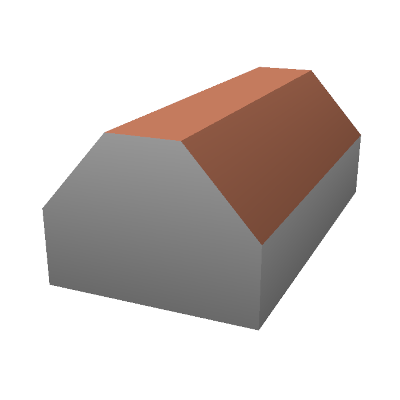
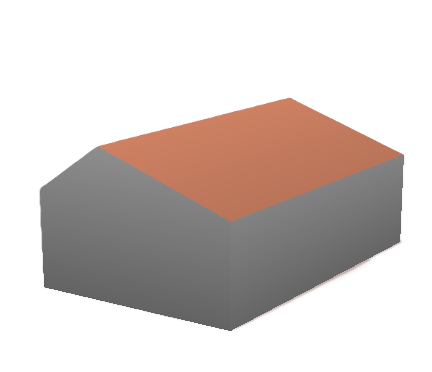
features.md updated

Changed region(s): [[0.09, 0.1478, 0.96, 0.8871]]

diff --git a/docs/features.md b/docs/features.md
@@ -124,11 +124,14 @@ Note: here we follow the F4 map approach, and an original OSM way/relation defin
 
 
 ### `saltbox`
-There is no consensus in OSM about what `roof:shape=saltbox` should mean. Here we just follow the F4 map interpretation.
+The saltbox roof is supported as asymmetrical gabled roof in accordance with the corresponding [osm-wiki page](https://wiki.openstreetmap.org/wiki/Tag:roof:shape%3Dsaltbox), with the following exception: 
+both front and back eaves have equal height. There is not tagging scheme currently to specify different heights (only `roof:height`).
 
 ![Image of a saltbox roof](images/roof_saltbox.png)
 
-The keys `roof:orientation` and `roof:direction` should work as for other similar roof shapes.
+`roof:orientation` can be `along` or `across`, but it cannot unambigously specify roof orientation, due to its assimmetrical nature. `roof:direction` specifies direction of the longer slope.
+
+**Note:** There are several other interpretations in the OSM community what the saltbox roof is.  We follow the _main_ wiki page wit tag definition. F4 map renderes this roof shape differently. 
 
 ### `cross_gabled` (or `crosspitched`)
 Two gabled roof sections are put together at right angles.
@@ -152,6 +155,8 @@ This roof shape is particularly useful for building parts, to easily create a bu
 
 ### `side_half-hipped`
 A combination of a half-hipped and a gabled roof. One end is half-hipped (a vertical trapezoid wall topped with a small sloped roof triangle), and the other end is a full vertical gable. This is common for semi-detached houses where the whole building has a `half-hipped` roof.
+
+![Image of a side_half-hipped roof](images/roof_side_half-hipped.png)
 
 Only quadrangular footprints are supported. The orientation is controlled via the `roof:direction` tag. The direction value signifies the direction from the roof centroid to the half-hipped face.
 
@@ -274,6 +279,16 @@ For objects tagged with `leisure=pitch`, the plugin automatically renders charac
 - `sport=volleyball`: Renders FIVB-standard volleyball court markings.
 - `sport=badminton`: Renders professional badminton court markings.
 
+
+![pitches with markings](images/leisure_pitch.png)
+
 **Automatic Scaling:**
 - The markings are automatically aligned along the longest side of the pitch.
 - For smaller training grounds or school pitches, the markings are proportionally scaled down to fit within the available space.
+
+
+---
+
+The Urban Eye is watching you!  
+
+<img src="images/pic2.jpg" alt="Urban Eye" width="250px" />

diff --git a/GEMINI.md b/GEMINI.md
@@ -63,6 +63,11 @@
 See: [IDEAS.md](docs/dev/IDEAS.md)
 
 
+### May 07, 2026
+
+* `roof:shape=saltbox` has been reimplemented according to the [wiki page](https://wiki.openstreetmap.org/wiki/Tag:roof:shape=saltbox), with asymmetrical sides, but symmetrical heights.
+
+
 ### April 30, 2026
 
 *   **Badminton court markings:**
